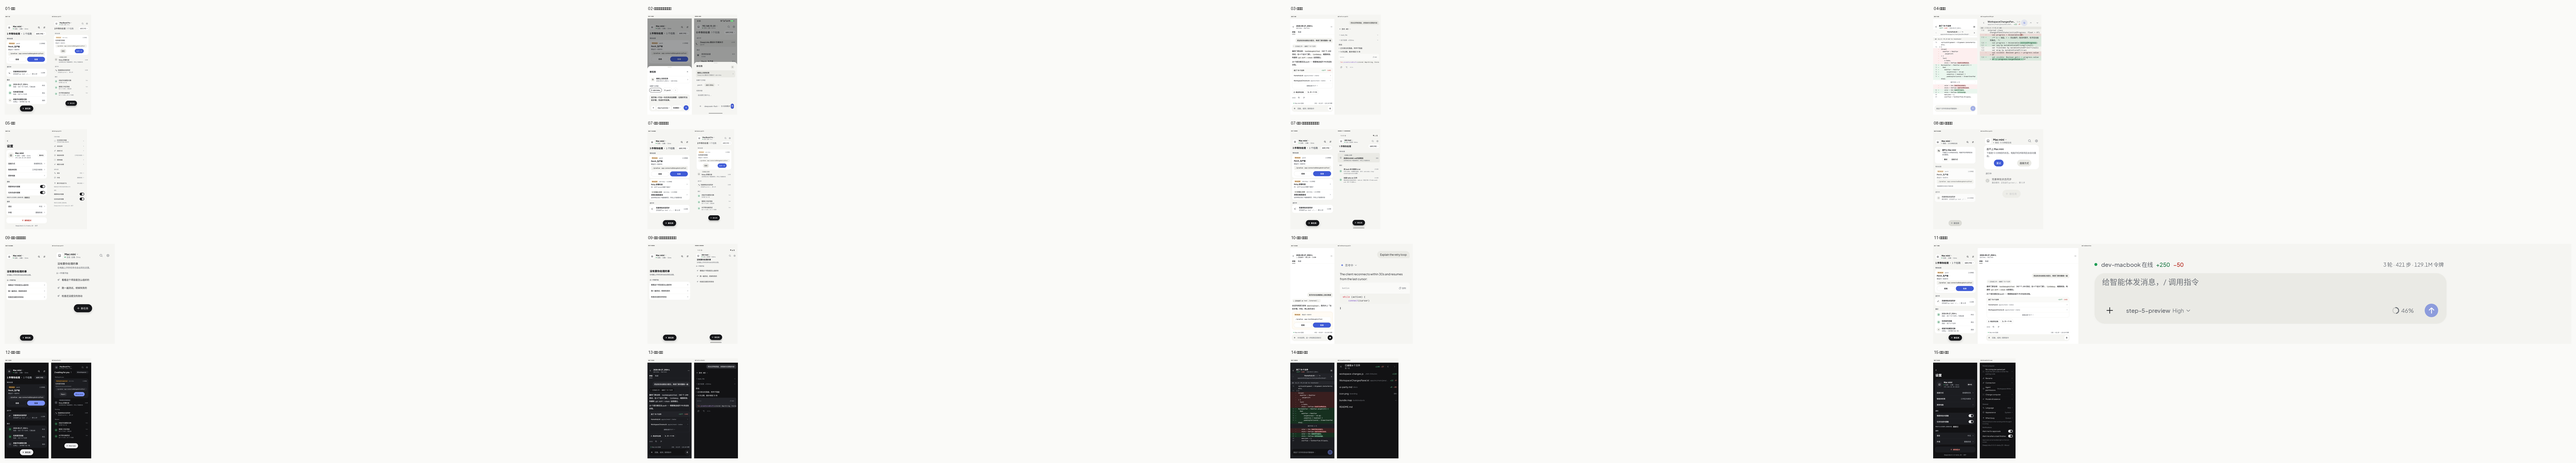
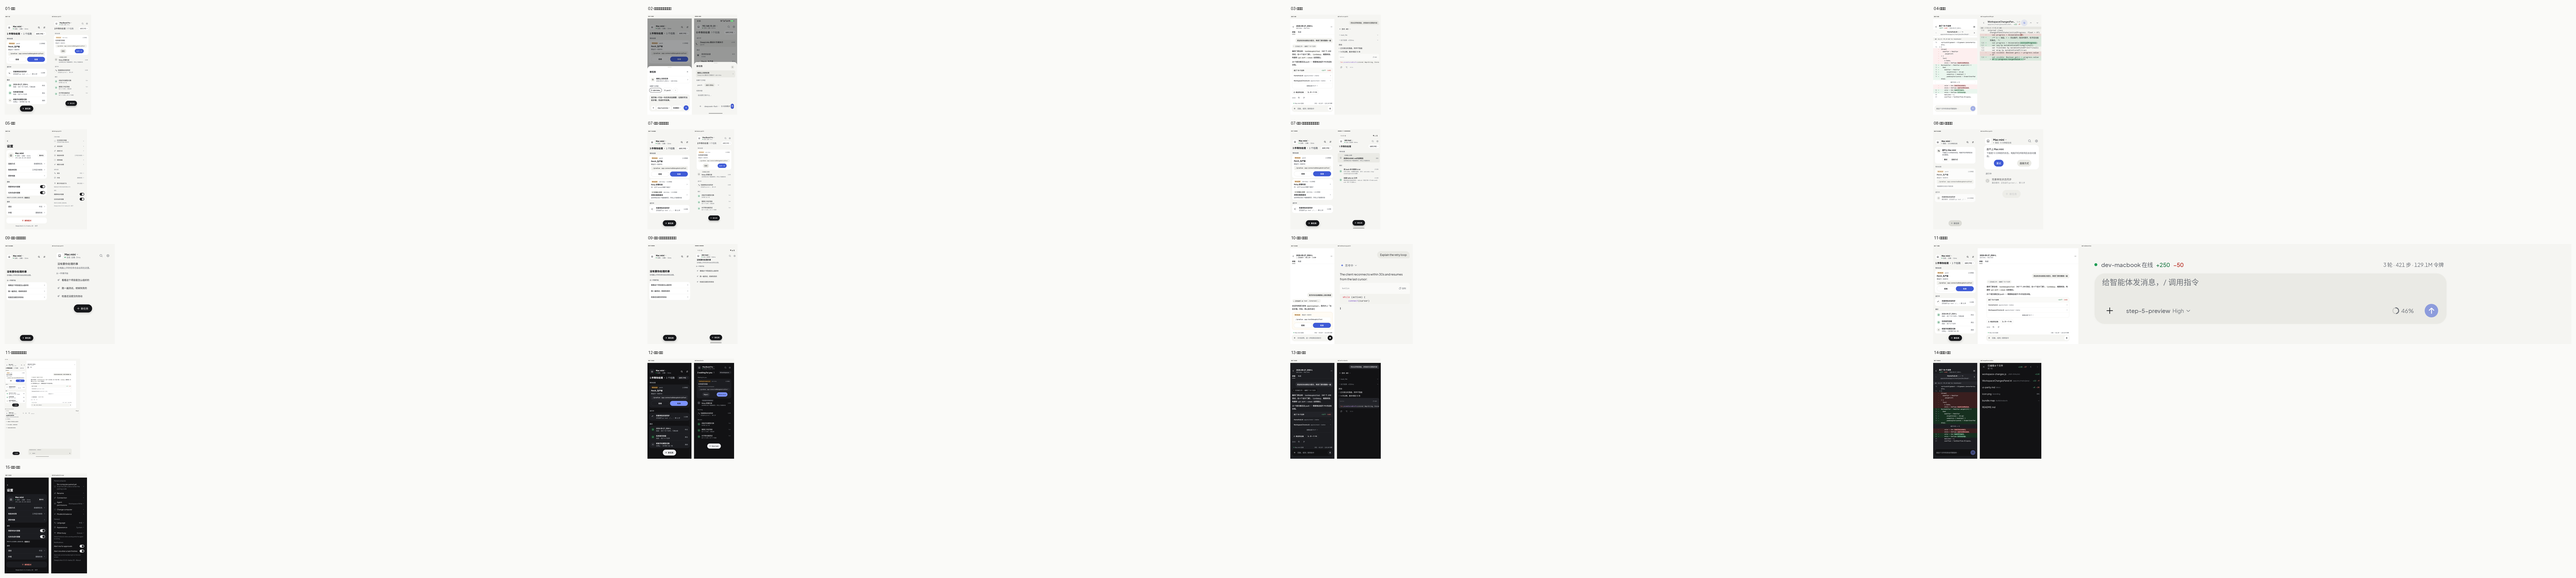
fix(android): 大屏新任务面板改为居中对话框（方案阶段 9），并补跑插桩测试 8/8
用户提醒可以借 Google 那套模拟器/CI 工具链，于是建了 Pixel Tablet AVD 跑宽屏——一跑就抓到
方案阶段 9 的偏差：**新任务面板在大屏上是整宽底部抽屉**，而方案原话是「以居中对话框或右侧面板呈现」。
（截图墙看不到：墙上没有大屏的新任务面板。）

修法：DshSheet 加 wide 选项，宽屏时改为「遮罩 + 居中承载（封顶 560dp）」；内容体抽成 DshSheetBody
两处共用；wide 由 NewTaskSheetHost 内部按容器宽度 ≥600dp 自算，WorkspaceActivity 一行未改
（保住 3084/3084 的行数预算）。平板实拍确认居中 ✓。

同时补上一块空白：插桩测试此前只 assemble 过、从未真跑——这轮在平板上 connectedDebugAndroidTest
**8/8 全过**（无障碍语义 / 数学渲染 / 聊天尾部定位）。

稿 11 结构本身核对无误：左收件箱常驻 + 右内容区、输入条封顶居中、宽屏无返回键。
已并入对照集（11 实拍，总览 17 组）。Android 五条门禁仍全绿。

diff --git a/apps/android/app/src/main/java/dev/deeplinks/native/ui/DshSheet.kt b/apps/android/app/src/main/java/dev/deeplinks/native/ui/DshSheet.kt
@@ -2,6 +2,7 @@ package dev.deeplinks.native.ui
 
 import dev.deeplinks.native.CloseOutline16
 import androidx.compose.foundation.background
+import androidx.compose.foundation.interaction.MutableInteractionSource
 import androidx.compose.foundation.clickable
 import androidx.compose.foundation.layout.Box
 import androidx.compose.foundation.layout.Column
@@ -13,6 +14,7 @@ import androidx.compose.foundation.shape.RoundedCornerShape
 import androidx.compose.material3.Button
 import androidx.compose.material3.ButtonDefaults
 import androidx.compose.foundation.layout.Spacer
+import androidx.compose.foundation.layout.widthIn
 import androidx.compose.foundation.layout.fillMaxWidth
 import androidx.compose.foundation.layout.height
 import androidx.compose.foundation.layout.imePadding
@@ -23,8 +25,11 @@ import androidx.compose.foundation.shape.CircleShape
 import androidx.compose.material3.ExperimentalMaterial3Api
 import androidx.compose.material3.Icon
 import androidx.compose.material3.ModalBottomSheet
+import androidx.compose.material3.Surface
 import androidx.compose.material3.Text
 import androidx.compose.material3.rememberModalBottomSheetState
+import androidx.compose.foundation.layout.fillMaxSize
+import androidx.compose.runtime.remember
 import androidx.compose.runtime.Composable
 import androidx.compose.ui.Alignment
 import androidx.compose.ui.Modifier
@@ -55,9 +60,36 @@ fun DshSheet(
     subtitle: String? = null,
     showClose: Boolean = false,
     skipPartiallyExpanded: Boolean = false,
+    /** 大屏（Medium/Expanded）改成「遮罩 + 居中承载」，见方案阶段 9：新任务面板居中对话框。 */
+    wide: Boolean = false,
     headerTrailing: (@Composable () -> Unit)? = null,
     content: @Composable ColumnScope.() -> Unit,
 ) {
+    if (wide) {
+        Box(
+            modifier = Modifier
+                .fillMaxSize()
+                .background(Dsh.bgOverlay)
+                .clickable(interactionSource = remember { MutableInteractionSource() }, indication = null, onClick = onDismiss)
+                .navigationBarsPadding()
+                .imePadding()
+                .padding(DshSpace.s24),
+            contentAlignment = Alignment.Center,
+        ) {
+            Surface(
+                shape = DshSheetShape,
+                color = Dsh.bgBase,
+                contentColor = Dsh.labelPrimary,
+                modifier = Modifier
+                    .widthIn(max = 560.dp)
+                    .clickable(interactionSource = remember { MutableInteractionSource() }, indication = null, onClick = {})
+                    .then(modifier),
+            ) {
+                DshSheetBody(title = title, subtitle = subtitle, showClose = showClose, onDismiss = onDismiss, trailing = headerTrailing, content = content)
+            }
+        }
+        return
+    }
     ModalBottomSheet(
         onDismissRequest = onDismiss,
         sheetState = rememberModalBottomSheetState(skipPartiallyExpanded = skipPartiallyExpanded),
@@ -68,25 +100,33 @@ fun DshSheet(
         dragHandle = null,
         modifier = modifier.fillMaxWidth(),
     ) {
-        Column(
-            modifier = Modifier
-                .fillMaxWidth()
-                .navigationBarsPadding()
-                .imePadding()
-                .padding(horizontal = DshSpace.s16)
-                .padding(bottom = DshSpace.s20),
-        ) {
-            DshSheetGrabber()
-            if (title != null) {
-                DshSheetHeader(
-                    title = title,
-                    subtitle = subtitle,
-                    onClose = if (showClose) onDismiss else null,
-                    trailing = headerTrailing,
-                )
-            }
-            content()
+        DshSheetBody(title = title, subtitle = subtitle, showClose = showClose, onDismiss = onDismiss, trailing = headerTrailing, content = content)
+    }
+}
+
+/** 面板内容体：把手 + 标题（+ 关闭钮）+ 内容。底部抽屉与宽屏居中承载共用。 */
+@Composable
+private fun DshSheetBody(
+    title: String?,
+    subtitle: String?,
+    showClose: Boolean,
+    onDismiss: () -> Unit,
+    trailing: (@Composable () -> Unit)?,
+    content: @Composable ColumnScope.() -> Unit,
+) {
+    Column(
+        modifier = Modifier
+            .fillMaxWidth()
+            .navigationBarsPadding()
+            .imePadding()
+            .padding(horizontal = DshSpace.s16)
+            .padding(bottom = DshSpace.s20),
+    ) {
+        DshSheetGrabber()
+        if (title != null) {
+            DshSheetHeader(title = title, subtitle = subtitle, onClose = if (showClose) onDismiss else null, trailing = trailing)
         }
+        content()
     }
 }
 

diff --git a/apps/android/app/src/main/java/dev/deeplinks/native/NewTaskSheet.kt b/apps/android/app/src/main/java/dev/deeplinks/native/NewTaskSheet.kt
@@ -83,7 +83,12 @@ internal class NewTaskSheetActions(
 
 @Composable
 internal fun NewTaskSheetHost(state: NewTaskSheetState, actions: NewTaskSheetActions) {
+    // 方案阶段 9：大屏上新任务面板以居中对话框呈现（底部抽屉在平板上整宽，与稿 11 不符）。
+    val wide = with(androidx.compose.ui.platform.LocalDensity.current) {
+        androidx.compose.ui.platform.LocalWindowInfo.current.containerSize.width.toDp() >= 600.dp
+    }
     NewTaskSheet(
+        wide = wide,
         workspaces = state.workspaces,
         selectedWorkspace = state.selectedWorkspace,
         onSelectWorkspace = actions.onSelectWorkspace,
@@ -113,6 +118,7 @@ internal fun NewTaskSheetHost(state: NewTaskSheetState, actions: NewTaskSheetAct
 
 @Composable
 internal fun NewTaskSheet(
+    wide: Boolean = false,
     workspaces: List<String>,
     selectedWorkspace: String?,
     onSelectWorkspace: (String) -> Unit,
@@ -138,6 +144,7 @@ internal fun NewTaskSheet(
         title = DshS.homeNewTask,
         showClose = true,
         skipPartiallyExpanded = true,
+        wide = wide,
     ) {
         NewTaskSheetContent(
             workspaces = workspaces,

diff --git a/apps/android/docs/redesign-index.md b/apps/android/docs/redesign-index.md
@@ -7,7 +7,7 @@
 | 提交数（`git rev-list --count a864afd..HEAD`） | **112**（实测） |
 | 改动规模 | 153 个文件，+5797 / −987 |
 | 工作树 | 干净（0 项改动） |
-| Android 门禁 | 五条全绿：`assembleDebug` / `assembleDebugAndroidTest` / `testDebugUnitTest`（**550 例**）/ `lintDebug` / `validateDebugScreenshotTest`（**59 张**基线） |
+| Android 门禁 | 五条全绿：`assembleDebug` / `assembleDebugAndroidTest` / `testDebugUnitTest`（**550 例**）/ `lintDebug` / `validateDebugScreenshotTest`（**59 张**基线）；另在 **Pixel Tablet AVD** 上真跑插桩测试 `connectedDebugAndroidTest` **8/8 全过** |
 | 插件门禁 | `node --test test/*.mjs` **282 例全过**；`npm run prepack` 亦通过 |
 | 空白检查 | `git diff --check` 干净 |
 | Relay | 本次未改动（diff 为 0）；本机无 Go 工具链，未执行 |
@@ -28,7 +28,7 @@
 | 通知频道存在 | ✅ | 用户手机 `dumpsys notification` |
 | 04 看改动 / 14 看改动深色 | 🔶 实现齐全，**真机未验** | 截图墙（list / diff / wide） |
 | 06 通知的锁屏批准与拒绝 | 🔶 频道与动作已实现，**两条路径未验** | 手机确认频道；动作需真实审批 |
-| 11 平板整页 | 🔶 结构与封顶已实现，**平板整页未验** | 宽屏截图墙 |
+| 11 平板横屏 | ✅ | **Pixel Tablet AVD 实拍**：左栏常驻 + 右内容区 + 输入条封顶居中 + 宽屏无返回键 + 新任务居中对话框 |
 | 折叠屏 | N/A | 直板机与模拟器都非折叠形态 |
 | 高对比 | ✅ 不是开关 | `DshContrast.kt` 是对比度校验工具，随门禁运行 |
 
@@ -126,7 +126,7 @@ App 侧两态都按 `takenOverByPhone` 分支，因此**在两种基线上都正
 |---|---|---|
 | 04 / 14 看改动 | **实现齐全，真机未验** | 本机基线 `0.1.5-rc.3` 的 web profile 不宣告 `capabilities.files.changes`；App 按能力位正确隐藏入口 |
 | 06 通知的锁屏批准/拒绝 | **实现齐全，未验** | 依赖「手机接管」成立；该接管在 rc.3 上不可达（探针实测钩子不触发） |
-| 11 平板整页 | **实现齐全，整页未验** | 无平板/折叠形态硬件 |
+| 11 平板横屏 | **已验**（2026-09-29 用 Pixel Tablet AVD 补齐） | — |
 
 **补法已写成一份速查**：[`redesign-reverify-runbook.md`](redesign-reverify-runbook.md)
 （起隔离实例、配对的两个坑、造改动现场、接管探针、`awaitingInput` 自检、收尾命令）。
